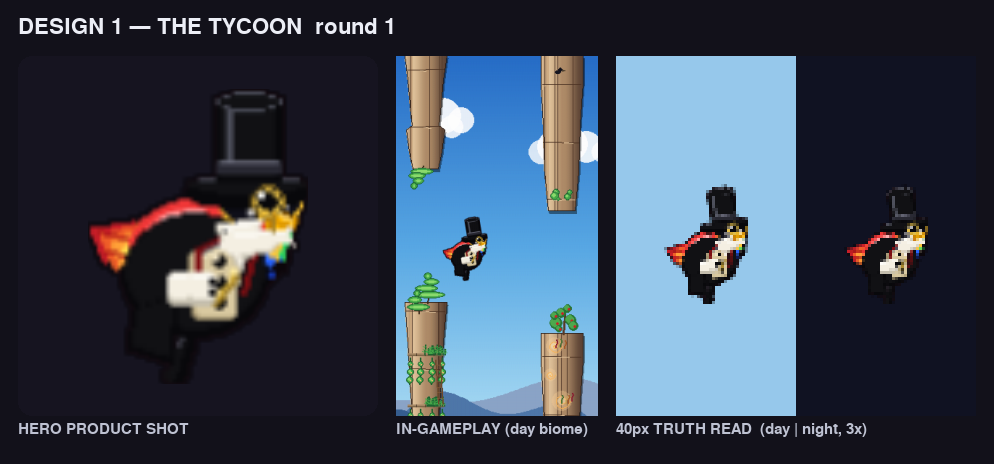
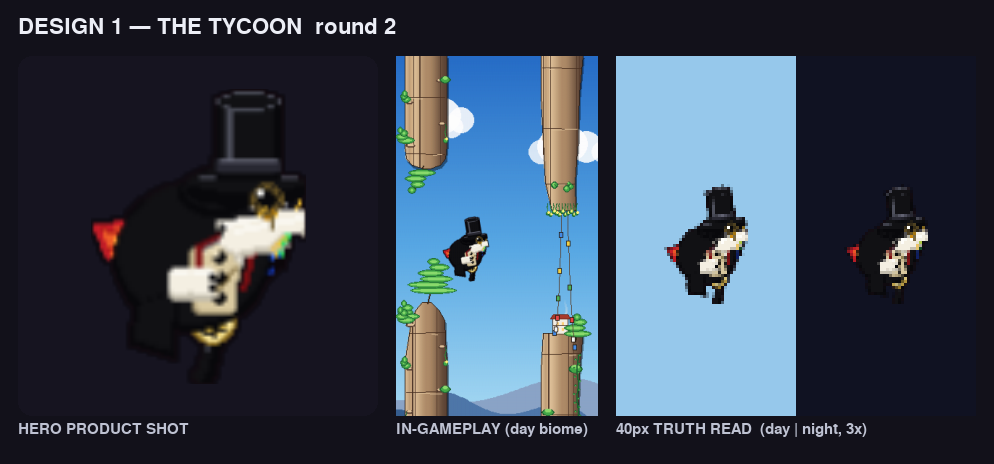
Tophat DESIGN 1 "THE TYCOON" R2: rescue the gold "$" cane + clean the chest read
Address the art-director's three ITERATE notes on the gentleman top-hat
candidate, keeping the hat / value spine / scarlet edge / spats untouched:

- Move the "$" cane to the low-front-centre belly so the gold coin sits
  alone against the black coat; bump the disc to r6 with a full bright rim
  ring. Dim the monocle rim + watch-chain to bronze so the belly "$" is the
  only bright gold focal point that survives downscale.
- Raise + widen the near-black coat mass and seal the band/brim seam so the
  upper-right rainbow feather pixels stop reading as confetti.
- Push the bow tie darker + wider to cut a clean notch splitting the white
  wedge into collar/shirt, and add a white-shadow row under the moustache
  droop for the walrus bottom contour.

Scratch only; not registered in store_skins.BUILDERS.

Claude-Session: https://claude.ai/code/session_01HafGQfRZVDiGkQqpJPr5Cm

diff --git a/tools/tophat_candidates/design_1.py b/tools/tophat_candidates/design_1.py
@@ -41,6 +41,9 @@ _TYC_WHITE_H = (255, 255, 252)     # brightest glint
 _TYC_GOLD    = (232, 194, 74)      # #E8C24A chain / $ disc
 _TYC_GOLD_D  = (158, 126, 40)
 _TYC_GOLD_H  = (255, 236, 158)
+# Dim bronze for the monocle rim + watch-chain so only the belly "$" disc keeps a
+# bright gold value — two competing golds was the smear the cane got lost in.
+_TYC_BRONZE  = (104, 84, 38)
 
 _TYC_BUFF    = (217, 201, 160)     # #D9C9A0 waistcoat
 _TYC_BUFF_D  = (172, 156, 118)
@@ -50,14 +53,15 @@ _TYC_SCARLET = (124, 14, 18)       # #7C0E12 lapel-edge accent (the surviving re
 
 
 def _paint(surf, _a):
-    # ── BLACK I-CANE held DOWN-FRONT of the body, painted FIRST so the coat block
-    #    buries the upper shaft and only the lower stick + the gold "$" grip
-    #    overshoot the belly silhouette into clear sky. The grip sits low-front-
-    #    centre (well clear of the head + the loud wing feathers, so the gold reads
-    #    as one clean coin) and the ferrule drops below the body to break the
-    #    lower outline the way the pirate's peg leg does.
-    grip = (HX - 17, HY + 30)           # $-disc grip, low-front-centre belly
-    foot = (HX - 22, HY + 48)           # ferrule tip, below the body line
+    # ── BLACK "$"-CANE dropped to the LOW-FRONT-CENTRE BELLY, painted FIRST so the
+    #    coat block buries the upper shaft and only the lower stick + the gold "$"
+    #    grip overshoot the belly silhouette into clear sky. Pulled OFF the face
+    #    (where it smeared into the monocle/moustache gold + wing rainbow) so the
+    #    gold coin now sits ALONE against the black coat with clear air around it —
+    #    the one surviving gold focal point. The ferrule drops below the body line
+    #    to break the lower outline the way the pirate's peg leg does.
+    grip = (HX - 10, HY + 34)           # $-disc grip, low-front-centre belly
+    foot = (HX - 14, HY + 50)           # ferrule tip, below the body line
     pygame.draw.line(surf, _TYC_BLACK_D, (grip[0] + 1, grip[1] + 1),
                      (foot[0] + 1, foot[1] + 1), 4)        # shadow underlay
     pygame.draw.line(surf, _TYC_BLACK, grip, foot, 3)      # ebony shaft
@@ -65,17 +69,18 @@ def _paint(surf, _a):
                      ((grip[0] + foot[0]) // 2, (grip[1] + foot[1]) // 2), 1)  # glint
     pygame.draw.circle(surf, _TYC_BLACK, foot, 2)          # rubber ferrule tip
 
-    # Glowing gold "$" disc at the grip — the legendary flourish. Halo → core →
-    # rim → glyph → glint so the tiny coin still reads as money at 40px.
+    # Glowing gold "$" disc at the grip — the legendary flourish, now the SOLE gold
+    # focal point. Bumped to r6 with a FULL bright rim RING (not a 1px arc) so the
+    # coin still reads as money at 40px against the surrounding black coat.
     gx, gy = grip
-    pygame.draw.circle(surf, _TYC_GOLD_D, (gx, gy), 6)     # soft halo / shadow ring
-    pygame.draw.circle(surf, _TYC_GOLD, (gx, gy), 5)       # gold disc body
-    pygame.draw.circle(surf, _TYC_GOLD_H, (gx, gy), 5, 1)  # bright rim
+    pygame.draw.circle(surf, _TYC_GOLD_D, (gx, gy), 7)     # soft halo / shadow ring
+    pygame.draw.circle(surf, _TYC_GOLD, (gx, gy), 6)       # gold disc body
+    pygame.draw.circle(surf, _TYC_GOLD_H, (gx, gy), 6, 2)  # full bright rim ring
     # The "$" glyph — a short vertical bar with a tiny serif kick so it reads as
     # currency, not a blank coin.
-    pygame.draw.line(surf, _TYC_BLACK_D, (gx, gy - 3), (gx, gy + 3), 1)
-    pygame.draw.line(surf, _TYC_BLACK_D, (gx - 2, gy - 1), (gx + 2, gy - 2), 1)
-    pygame.draw.line(surf, _TYC_BLACK_D, (gx - 2, gy + 2), (gx + 2, gy + 1), 1)
+    pygame.draw.line(surf, _TYC_BLACK_D, (gx, gy - 4), (gx, gy + 4), 1)
+    pygame.draw.line(surf, _TYC_BLACK_D, (gx - 3, gy - 2), (gx + 3, gy - 3), 1)
+    pygame.draw.line(surf, _TYC_BLACK_D, (gx - 3, gy + 3), (gx + 3, gy + 2), 1)
     pygame.draw.circle(surf, _TYC_GOLD_H, (gx - 2, gy - 2), 1)  # top-left glint
 
     # ── BLACK MORNING-COAT painted OVER the scarlet body. Body centre ~(32, 52).
@@ -85,9 +90,20 @@ def _paint(surf, _a):
     # Coat body — one broad rounded block that reaches UP-and-BACK over the wing so
     # the macaw's loud rainbow feathers are buried under near-black; the open
     # feathers were the chaos that read as noise at 40px, so the coat must cover
-    # them for the black-vs-white value pair to hold.
-    pygame.draw.ellipse(surf, _TYC_BLACK_D, (HX - 36, HY + 1, 42, 36))
-    pygame.draw.ellipse(surf, _TYC_BLACK, (HX - 35, HY + 1, 40, 34))
+    # them for the black-vs-white value pair to hold. Raised the top + widened the
+    # back so the near-black mass swallows the upper-right green/blue/magenta
+    # feather cluster that was poking out as confetti; chest now reads pure
+    # black-coat → white-wedge → red-edge and nothing else.
+    pygame.draw.ellipse(surf, _TYC_BLACK_D, (HX - 39, HY - 7, 46, 44))
+    pygame.draw.ellipse(surf, _TYC_BLACK, (HX - 38, HY - 7, 44, 42))
+    # A small near-black collar cap tucked under the hat-brim's back-left edge to
+    # bury the last green/blue/magenta head-feather pixels that peeked between the
+    # brim and the coat top and read as confetti at 40px. The narrow patch at the
+    # band/brim seam (HX-8..HX-6, just below CROWN_Y) seals the exact 2px window the
+    # macaw's blue head-feathers poked through.
+    pygame.draw.ellipse(surf, _TYC_BLACK_D, (HX - 20, CROWN_Y - 1, 22, 14))
+    pygame.draw.ellipse(surf, _TYC_BLACK, (HX - 19, CROWN_Y - 1, 20, 12))
+    pygame.draw.rect(surf, _TYC_BLACK, (HX - 10, CROWN_Y - 4, 8, 6))
     # Coat tail sweeping down-back so the formalwear reads below the body line.
     _poly(surf, _TYC_BLACK_D, [(HX - 32, HY + 28), (HX - 20, HY + 24),
                                (HX - 22, HY + 44), (HX - 34, HY + 40)])
@@ -106,14 +122,12 @@ def _paint(surf, _a):
         pygame.draw.circle(surf, _TYC_BLACK_D, (HX - 8, by), 2)
         pygame.draw.circle(surf, _TYC_BUFF_H, (HX - 9, by - 1), 1)
 
-    # Draped GOLD pocket-watch chain swag across the belly — a shallow catenary
-    # from a waistcoat button down and back up to a pocket, with a fob dot.
-    chain = [(HX - 4, HY + 18), (HX - 9, HY + 25), (HX - 15, HY + 22)]
-    pygame.draw.lines(surf, _TYC_GOLD_D, False,
-                      [(p[0], p[1] + 1) for p in chain], 2)
-    pygame.draw.lines(surf, _TYC_GOLD, False, chain, 1)
-    pygame.draw.circle(surf, _TYC_GOLD_H, (HX - 4, HY + 18), 1)   # link glint
-    pygame.draw.circle(surf, _TYC_GOLD, (HX - 16, HY + 22), 1)    # watch fob
+    # Draped pocket-watch chain swag across the belly — kept to the DIM gold-shadow
+    # value (no bright core, no glint) so it stays quiet and subordinate and the
+    # belly "$" coin is the only bright gold focal point at 40px.
+    chain = [(HX - 4, HY + 18), (HX - 9, HY + 24), (HX - 15, HY + 21)]
+    pygame.draw.lines(surf, _TYC_BRONZE, False, chain, 1)
+    pygame.draw.circle(surf, _TYC_BRONZE, (HX - 16, HY + 21), 1)  # watch fob
 
     # Thin SCARLET lapel edge framing the open coat V — the surviving macaw red,
     # the one warm accent that keeps Pip's identity under all the black-and-white.
@@ -140,11 +154,13 @@ def _paint(surf, _a):
     _poly(surf, _TYC_WHITE_D, [(p[0], p[1] + 1) for p in collar])
     _poly(surf, _TYC_WHITE, collar)
     pygame.draw.line(surf, _TYC_WHITE_H, (HX + 3, HY + 3), (HX - 7, HY + 5), 1)
-    # Slim black bow tie sitting at the collar point.
+    # Black BOW TIE sitting at the collar point — pushed to pure shadow-black and
+    # 1px wider so it cuts a clean dark NOTCH across the white wedge, splitting it
+    # into collar-above / shirt-below instead of one undifferentiated blob.
     bx, by = HX - 3, HY + 8
-    _poly(surf, _TYC_BLACK, [(bx - 4, by - 2), (bx - 1, by), (bx - 4, by + 2)])
-    _poly(surf, _TYC_BLACK, [(bx + 3, by - 2), (bx, by), (bx + 3, by + 2)])
-    pygame.draw.circle(surf, _TYC_BLACK_D, (bx, by), 1)           # centre knot
+    _poly(surf, _TYC_BLACK_D, [(bx - 5, by - 3), (bx - 1, by), (bx - 5, by + 3)])
+    _poly(surf, _TYC_BLACK_D, [(bx + 4, by - 3), (bx, by), (bx + 4, by + 3)])
+    pygame.draw.circle(surf, _TYC_BLACK_D, (bx, by), 2)           # centre knot
 
     # ── TALL BLACK SILK TOP HAT rising well above CROWN_Y — the identity anchor.
     cy = CROWN_Y
@@ -175,23 +191,37 @@ def _paint(surf, _a):
     # bright because it is THE comedy tell that survives the 40px downscale; a
     # shadow underlay first gives the white fur form against the scarlet face.
     mx, my = HX + 4, HY + 6
-    _poly(surf, _TYC_WHITE_D, [(mx + 8, my), (mx - 10, my + 1),
+    # Raised + extended the RIGHT wing up over the upper lip so the white fur buries
+    # the macaw's bright yellow BEAK base — that beak gold was the second bright
+    # gold competing with the belly "$" coin; with it covered the "$" is the lone
+    # gold focal point.
+    _poly(surf, _TYC_WHITE_D, [(mx + 14, my - 4), (mx - 10, my + 1),
                               (mx - 8, my + 8), (mx + 2, my + 6)])
-    _poly(surf, _TYC_WHITE, [(mx + 8, my - 1), (mx - 10, my),
+    _poly(surf, _TYC_WHITE, [(mx + 14, my - 5), (mx - 10, my),
                             (mx - 7, my + 7), (mx + 2, my + 5)])
     # Two drooping curl tips so it reads as a walrus, not a smear.
     _poly(surf, _TYC_WHITE, [(mx - 10, my), (mx - 8, my + 7), (mx - 12, my + 5)])
-    _poly(surf, _TYC_WHITE, [(mx + 7, my - 1), (mx + 9, my + 4), (mx + 4, my + 3)])
-    pygame.draw.line(surf, _TYC_WHITE_H, (mx + 6, my), (mx - 8, my + 1), 1)
+    # Right shoulder raised square over the beak so the bright macaw beak no longer
+    # peeks above the fur and steals gold from the belly "$".
+    _poly(surf, _TYC_WHITE, [(mx + 5, my - 5), (mx + 18, my - 5),
+                            (mx + 16, my + 2), (mx + 5, my + 1)])
+    _poly(surf, _TYC_WHITE_D, [(mx + 16, my - 4), (mx + 18, my + 1), (mx + 12, my + 2)])
+    pygame.draw.line(surf, _TYC_WHITE_H, (mx + 12, my - 3), (mx - 8, my + 1), 1)
+    # One row of white-SHADOW under the lower droop edge so the moustache catches a
+    # hard bottom contour — the curl-tips read as a walrus droop, not a paint spill.
+    pygame.draw.line(surf, _TYC_WHITE_D, (mx - 11, my + 6), (mx - 8, my + 8), 1)
+    pygame.draw.line(surf, _TYC_WHITE_D, (mx - 8, my + 8), (mx + 2, my + 7), 1)
+    pygame.draw.line(surf, _TYC_WHITE_D, (mx + 2, my + 7), (mx + 8, my + 5), 1)
 
-    # Round gold-rimmed MONOCLE on the near eye + a 1px white glint + a thin
-    # cord down to the waistcoat. Raised above the moustache so the two reads
-    # don't collide, and the rim kept 1px so the gold disc still reads as glass.
+    # Round MONOCLE on the near eye + a 1px white glint + a thin cord down to the
+    # waistcoat. Its rim is DIMMED to the low gold-shadow value (no bright core) so
+    # only the belly "$" coin survives as the single gold focal point at 40px — two
+    # competing golds was the smear the cane got lost in.
     ex, ey = HX + 6, HY - 2
-    pygame.draw.circle(surf, _TYC_GOLD_D, (ex, ey), 5, 1)
-    pygame.draw.circle(surf, _TYC_GOLD, (ex, ey), 4, 1)
+    pygame.draw.circle(surf, _TYC_BRONZE, (ex, ey), 5, 1)
+    pygame.draw.circle(surf, _TYC_BRONZE, (ex, ey), 4, 1)
     pygame.draw.circle(surf, _TYC_WHITE_H, (ex - 2, ey - 2), 1)   # glint
-    pygame.draw.line(surf, _TYC_GOLD_D, (ex + 1, ey + 4), (ex + 1, HY + 6), 1)
+    pygame.draw.line(surf, _TYC_BRONZE, (ex + 1, ey + 4), (ex + 1, HY + 6), 1)
 
 
 build = store_skins._make_skin(_paint)

diff --git a/tools/tophat_candidates/render_design_1.py b/tools/tophat_candidates/render_design_1.py
@@ -13,7 +13,7 @@ from tools import ninja_render
 from tools.tophat_candidates.design_1 import build
 
 OUT = "docs/store_redesign/costume/tophat/design_1/round_1.png"
-TITLE = "DESIGN 1 — THE TYCOON  round 1"
+TITLE = "DESIGN 1 — THE TYCOON  round 2"
 
 
 def _label(surf, text, x, y, size=18, color=(236, 238, 246)):
